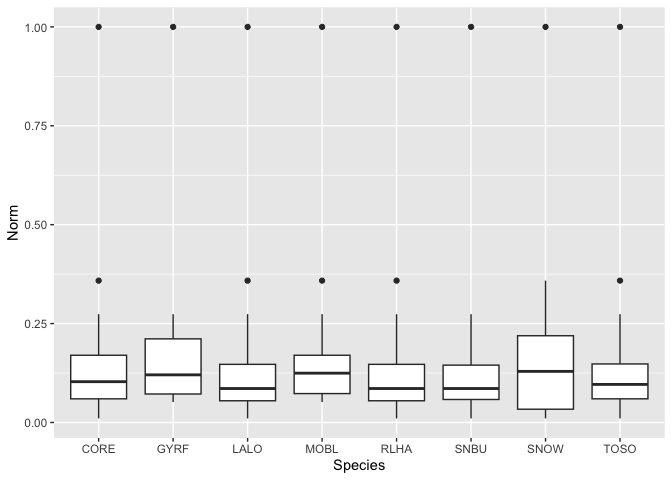
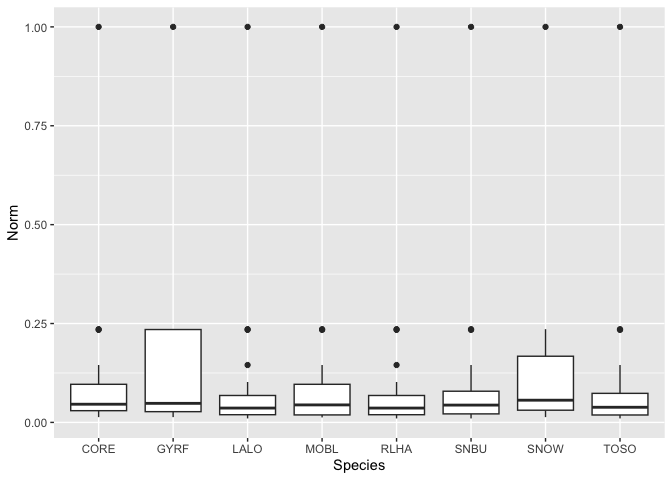
Updated versions of the files.

diff --git a/sandhills_gaps.md b/sandhills_gaps.md
@@ -174,7 +174,7 @@ y1 <- predict(sandhills.lm,newdata=x1,
               interval="confidence")
 
 plot(y=x_vals$Total,x=log(x_vals$`# eBird Lists`),
-     ylab = ("Total Species"),xlab = "Lists",
+     ylab = ("Total Species"),xlab = "Log # of Lists",
      pch=19)
 matlines(x1,y1,lwd=2)
 ```
@@ -258,14 +258,16 @@ snbu <- x_vals[which(x_vals$`Snow Bunting`=="X"),]
 ```
 
 ``` r
-rlha_norm <- rlha$`Norm Ratio`
-snow_norm <- snow$`Norm Ratio`
-gyrf_norm <- gyrf$`Norm Ratio`
-mobl_norm <- mobl$`Norm Ratio`
-toso_norm <- toso$`Norm Ratio`
-core_norm <- core$`Norm Ratio`
-lalo_norm <- lalo$`Norm Ratio`
-snbu_norm <- snbu$`Norm Ratio`
+max_lists <- max(x_vals$`# eBird Lists`)
+
+rlha_norm <- rlha$`# eBird Lists`/max_lists
+snow_norm <- snow$`# eBird Lists`/max_lists
+gyrf_norm <- gyrf$`# eBird Lists`/max_lists
+mobl_norm <- mobl$`# eBird Lists`/max_lists
+toso_norm <- toso$`# eBird Lists`/max_lists
+core_norm <- core$`# eBird Lists`/max_lists
+lalo_norm <- lalo$`# eBird Lists`/max_lists
+snbu_norm <- snbu$`# eBird Lists`/max_lists
 ```
 
 We have different counts for everything, so we are going to do pairwise
@@ -285,7 +287,7 @@ wilcox.test(x = rlha_norm,y = snow_norm,alternative = "l",conf.level = 0.1)
     ##  Wilcoxon rank sum test with continuity correction
     ## 
     ## data:  rlha_norm and snow_norm
-    ## W = 121, p-value = 0.283
+    ## W = 99, p-value = 0.09027
     ## alternative hypothesis: true location shift is less than 0
 
 ``` r
@@ -299,7 +301,7 @@ wilcox.test(x = rlha_norm,y = gyrf_norm,alternative = "l",conf.level = 0.1)
     ##  Wilcoxon rank sum test with continuity correction
     ## 
     ## data:  rlha_norm and gyrf_norm
-    ## W = 63.5, p-value = 0.2091
+    ## W = 62.5, p-value = 0.1952
     ## alternative hypothesis: true location shift is less than 0
 
 ``` r
@@ -313,7 +315,7 @@ wilcox.test(x = rlha_norm,y = mobl_norm,alternative = "l",conf.level = 0.1)
     ##  Wilcoxon rank sum test with continuity correction
     ## 
     ## data:  rlha_norm and mobl_norm
-    ## W = 162, p-value = 0.121
+    ## W = 190, p-value = 0.3322
     ## alternative hypothesis: true location shift is less than 0
 
 ``` r
@@ -327,7 +329,7 @@ wilcox.test(x = rlha_norm,y = toso_norm,alternative = "l",conf.level = 0.1)
     ##  Wilcoxon rank sum test with continuity correction
     ## 
     ## data:  rlha_norm and toso_norm
-    ## W = 245, p-value = 0.4323
+    ## W = 252, p-value = 0.4955
     ## alternative hypothesis: true location shift is less than 0
 
 ``` r
@@ -341,7 +343,7 @@ wilcox.test(x = rlha_norm,y = core_norm,alternative = "l",conf.level = 0.1)
     ##  Wilcoxon rank sum test with continuity correction
     ## 
     ## data:  rlha_norm and core_norm
-    ## W = 193, p-value = 0.3613
+    ## W = 168, p-value = 0.1557
     ## alternative hypothesis: true location shift is less than 0
 
 ``` r
@@ -369,7 +371,7 @@ wilcox.test(x = rlha_norm,y = snbu_norm,alternative = "l",conf.level = 0.1)
     ##  Wilcoxon rank sum test with continuity correction
     ## 
     ## data:  rlha_norm and snbu_norm
-    ## W = 197.5, p-value = 0.5273
+    ## W = 180.5, p-value = 0.3457
     ## alternative hypothesis: true location shift is less than 0
 
 ``` r
@@ -384,7 +386,7 @@ wilcox.test(x = snow_norm,y = gyrf_norm,alternative = "l",conf.level = 0.1)
     ##  Wilcoxon rank sum test with continuity correction
     ## 
     ## data:  snow_norm and gyrf_norm
-    ## W = 38, p-value = 0.3835
+    ## W = 42, p-value = 0.5169
     ## alternative hypothesis: true location shift is less than 0
 
 ``` r
@@ -398,7 +400,7 @@ wilcox.test(x = snow_norm,y = mobl_norm,alternative = "g",conf.level = 0.1)
     ##  Wilcoxon rank sum test with continuity correction
     ## 
     ## data:  snow_norm and mobl_norm
-    ## W = 103, p-value = 0.5921
+    ## W = 129, p-value = 0.1925
     ## alternative hypothesis: true location shift is greater than 0
 
 ``` r
@@ -412,7 +414,7 @@ wilcox.test(x = snow_norm,y = toso_norm,alternative = "g",conf.level = 0.1)
     ##  Wilcoxon rank sum test with continuity correction
     ## 
     ## data:  snow_norm and toso_norm
-    ## W = 145.5, p-value = 0.3196
+    ## W = 168.5, p-value = 0.09707
     ## alternative hypothesis: true location shift is greater than 0
 
 ``` r
@@ -426,7 +428,7 @@ wilcox.test(x = snow_norm,y = core_norm,alternative = "g",conf.level = 0.1)
     ##  Wilcoxon rank sum test with continuity correction
     ## 
     ## data:  snow_norm and core_norm
-    ## W = 114, p-value = 0.4078
+    ## W = 121, p-value = 0.2981
     ## alternative hypothesis: true location shift is greater than 0
 
 ``` r
@@ -440,7 +442,7 @@ wilcox.test(x = snow_norm,y = lalo_norm,alternative = "g",conf.level = 0.1)
     ##  Wilcoxon rank sum test with continuity correction
     ## 
     ## data:  snow_norm and lalo_norm
-    ## W = 155, p-value = 0.283
+    ## W = 177, p-value = 0.09027
     ## alternative hypothesis: true location shift is greater than 0
 
 ``` r
@@ -454,7 +456,7 @@ wilcox.test(x = snow_norm,y = snbu_norm,alternative = "g",conf.level = 0.1)
     ##  Wilcoxon rank sum test with continuity correction
     ## 
     ## data:  snow_norm and snbu_norm
-    ## W = 117, p-value = 0.2602
+    ## W = 123, p-value = 0.1817
     ## alternative hypothesis: true location shift is greater than 0
 
 ``` r
@@ -469,7 +471,7 @@ wilcox.test(x = gyrf_norm,y = mobl_norm,alternative = "g",conf.level = 0.1)
     ##  Wilcoxon rank sum test with continuity correction
     ## 
     ## data:  gyrf_norm and mobl_norm
-    ## W = 62.5, p-value = 0.5242
+    ## W = 72.5, p-value = 0.2927
     ## alternative hypothesis: true location shift is greater than 0
 
 ``` r
@@ -483,7 +485,7 @@ wilcox.test(x = gyrf_norm,y = toso_norm,alternative = "g",conf.level = 0.1)
     ##  Wilcoxon rank sum test with continuity correction
     ## 
     ## data:  gyrf_norm and toso_norm
-    ## W = 90.5, p-value = 0.2536
+    ## W = 93.5, p-value = 0.2072
     ## alternative hypothesis: true location shift is greater than 0
 
 ``` r
@@ -497,7 +499,7 @@ wilcox.test(x = gyrf_norm,y = core_norm,alternative = "g",conf.level = 0.1)
     ##  Wilcoxon rank sum test with continuity correction
     ## 
     ## data:  gyrf_norm and core_norm
-    ## W = 72, p-value = 0.3033
+    ## W = 68, p-value = 0.3926
     ## alternative hypothesis: true location shift is greater than 0
 
 ``` r
@@ -511,7 +513,7 @@ wilcox.test(x = gyrf_norm,y = lalo_norm,alternative = "g",conf.level = 0.1)
     ##  Wilcoxon rank sum test with continuity correction
     ## 
     ## data:  gyrf_norm and lalo_norm
-    ## W = 97.5, p-value = 0.2091
+    ## W = 98.5, p-value = 0.1952
     ## alternative hypothesis: true location shift is greater than 0
 
 ``` r
@@ -525,7 +527,7 @@ wilcox.test(x = gyrf_norm,y = snbu_norm,alternative = "g",conf.level = 0.1)
     ##  Wilcoxon rank sum test with continuity correction
     ## 
     ## data:  gyrf_norm and snbu_norm
-    ## W = 72.5, p-value = 0.2134
+    ## W = 68.5, p-value = 0.2945
     ## alternative hypothesis: true location shift is greater than 0
 
 ``` r
@@ -540,7 +542,7 @@ wilcox.test(x = mobl_norm,y = toso_norm,alternative = "l",conf.level = 0.1)
     ##  Wilcoxon rank sum test with continuity correction
     ## 
     ## data:  mobl_norm and toso_norm
-    ## W = 234, p-value = 0.8397
+    ## W = 213, p-value = 0.6634
     ## alternative hypothesis: true location shift is less than 0
 
 ``` r
@@ -554,7 +556,7 @@ wilcox.test(x = mobl_norm,y = core_norm,alternative = "l",conf.level = 0.1)
     ##  Wilcoxon rank sum test with continuity correction
     ## 
     ## data:  mobl_norm and core_norm
-    ## W = 185, p-value = 0.7716
+    ## W = 147, p-value = 0.3231
     ## alternative hypothesis: true location shift is less than 0
 
 ``` r
@@ -568,7 +570,7 @@ wilcox.test(x = mobl_norm,y = lalo_norm,alternative = "g",conf.level = 0.1)
     ##  Wilcoxon rank sum test with continuity correction
     ## 
     ## data:  mobl_norm and lalo_norm
-    ## W = 252, p-value = 0.121
+    ## W = 224, p-value = 0.3322
     ## alternative hypothesis: true location shift is greater than 0
 
 ``` r
@@ -582,7 +584,7 @@ wilcox.test(x = mobl_norm,y = snbu_norm,conf.level = 0.1)
     ##  Wilcoxon rank sum test with continuity correction
     ## 
     ## data:  mobl_norm and snbu_norm
-    ## W = 186.5, p-value = 0.2756
+    ## W = 154.5, p-value = 0.9736
     ## alternative hypothesis: true location shift is not equal to 0
 
 ``` r
@@ -597,7 +599,7 @@ wilcox.test(x = toso_norm,y = core_norm,alternative = "l",conf.level = 0.1)
     ##  Wilcoxon rank sum test with continuity correction
     ## 
     ## data:  toso_norm and core_norm
-    ## W = 190.5, p-value = 0.4245
+    ## W = 162.5, p-value = 0.1705
     ## alternative hypothesis: true location shift is less than 0
 
 ``` r
@@ -611,7 +613,7 @@ wilcox.test(x = toso_norm,y = lalo_norm,alternative = "g",conf.level = 0.1)
     ##  Wilcoxon rank sum test with continuity correction
     ## 
     ## data:  toso_norm and lalo_norm
-    ## W = 261, p-value = 0.4323
+    ## W = 254, p-value = 0.4955
     ## alternative hypothesis: true location shift is greater than 0
 
 ``` r
@@ -625,7 +627,7 @@ wilcox.test(x = toso_norm,y = snbu_norm,alternative = "g",conf.level = 0.1)
     ##  Wilcoxon rank sum test with continuity correction
     ## 
     ## data:  toso_norm and snbu_norm
-    ## W = 194.5, p-value = 0.4214
+    ## W = 173.5, p-value = 0.6543
     ## alternative hypothesis: true location shift is greater than 0
 
 ``` r
@@ -640,7 +642,7 @@ wilcox.test(x = core_norm,y = lalo_norm,alternative = "g",conf.level = 0.1)
     ##  Wilcoxon rank sum test with continuity correction
     ## 
     ## data:  core_norm and lalo_norm
-    ## W = 221, p-value = 0.3613
+    ## W = 246, p-value = 0.1557
     ## alternative hypothesis: true location shift is greater than 0
 
 ``` r
@@ -654,7 +656,7 @@ wilcox.test(x = core_norm,y = snbu_norm,alternative = "g",conf.level = 0.1)
     ##  Wilcoxon rank sum test with continuity correction
     ## 
     ## data:  core_norm and snbu_norm
-    ## W = 165, p-value = 0.352
+    ## W = 168, p-value = 0.316
     ## alternative hypothesis: true location shift is greater than 0
 
 ``` r
@@ -669,7 +671,7 @@ wilcox.test(x = lalo_norm,y = snbu_norm,alternative = "l",conf.level = 0.1)
     ##  Wilcoxon rank sum test with continuity correction
     ## 
     ## data:  lalo_norm and snbu_norm
-    ## W = 197.5, p-value = 0.5273
+    ## W = 180.5, p-value = 0.3457
     ## alternative hypothesis: true location shift is less than 0
 
 # Boxplot
